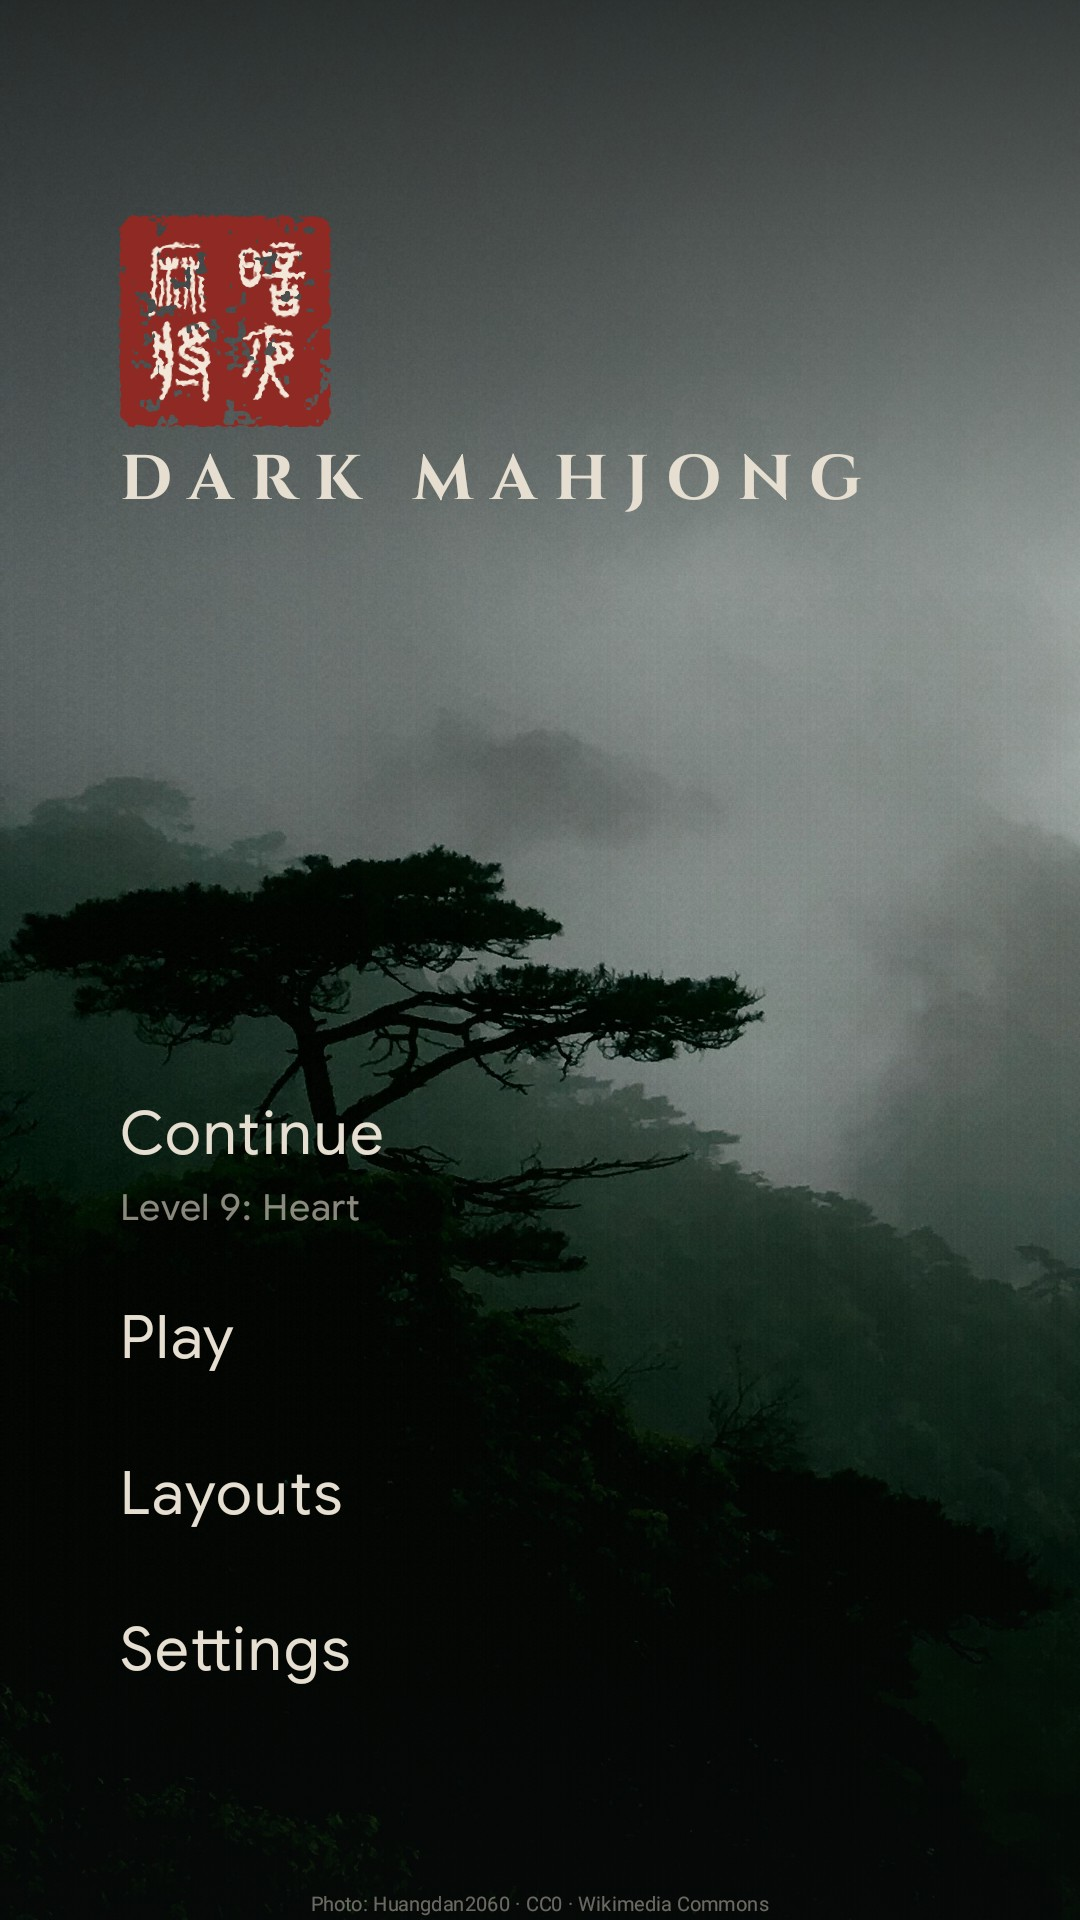
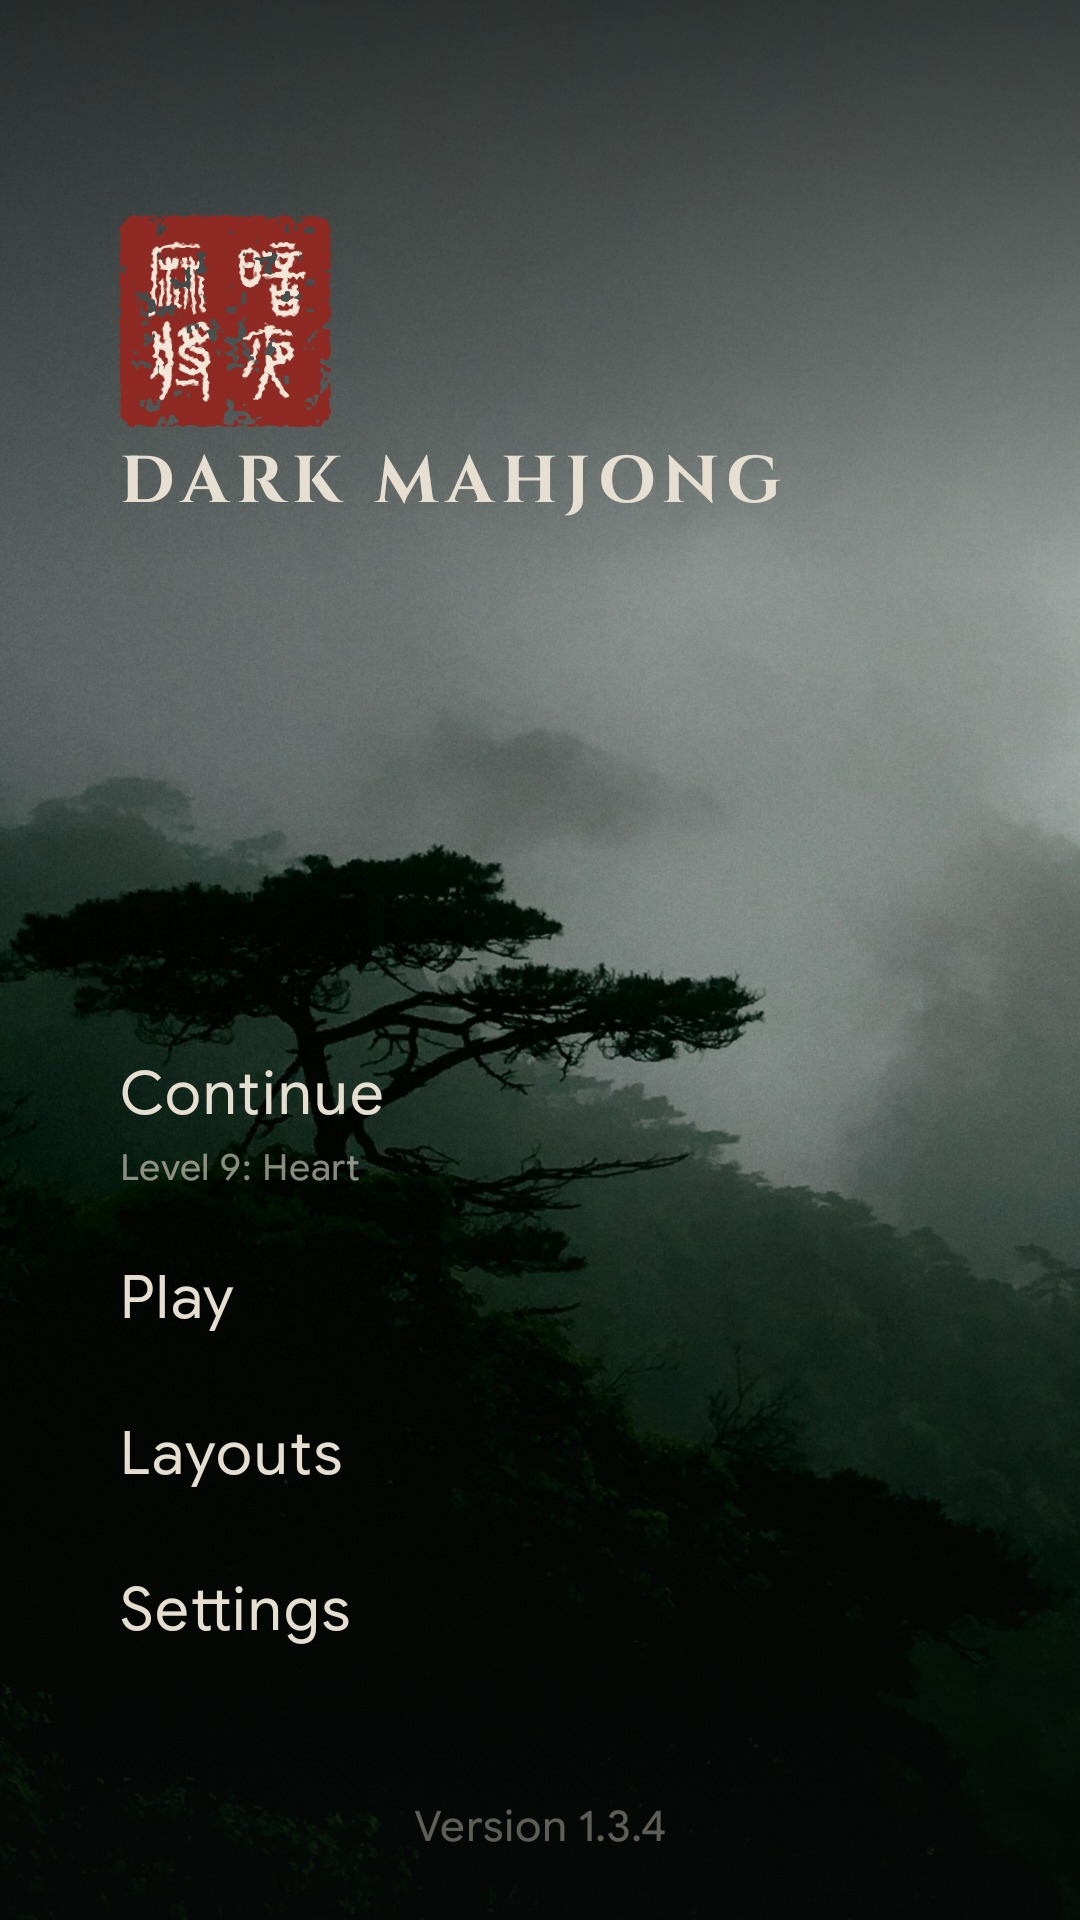
Screenshots from 1.3.4
The six store and README screenshots, rendered again from 1.3.4 (the
teal accent, the slate behind the levels list, the new version label).
For renders without a GPU, the slate is now drawn whole by the lamp
rather than left plain dark, so menu screens render as they look.

diff --git a/app/src/main/java/com/vortessence/mahjong/ui/components/StoneBackdrop.kt b/app/src/main/java/com/vortessence/mahjong/ui/components/StoneBackdrop.kt
@@ -43,6 +43,9 @@ fun SlateBackdrop(modifier: Modifier = Modifier, fire: Boolean = true, fireInten
     val colourBake = remember { RuntimeShader(SLATE_AGSL).apply { setFloatUniform("bakeMap", 0f) } }
     val surfaceBake = remember { RuntimeShader(SLATE_AGSL).apply { setFloatUniform("bakeMap", 1f) } }
     val light = remember { RuntimeShader(LIGHT_AGSL) }
+    // Without a GPU to bake on (the JVM renders), the slate lit by the lamp alone, worked out whole
+    val direct = remember { RuntimeShader(SLATE_AGSL).apply { setFloatUniform("bakeMap", 2f) } }
+    var bakeFailed by remember { mutableStateOf(false) }
     val colourLayer = rememberGraphicsLayer()
     val surfaceLayer = rememberGraphicsLayer()
     var size by remember { mutableStateOf(IntSize.Zero) }
@@ -56,8 +59,9 @@ fun SlateBackdrop(modifier: Modifier = Modifier, fire: Boolean = true, fireInten
             return layer.toImageBitmap().asAndroidBitmap()
         }
         // Baking needs the GPU (shaders can't be drawn in software, as in the JVM previews):
-        // without it, the page stays plain dark
+        // without it, the slate is drawn whole each time, by the lamp alone
         maps = runCatching { bake(colourLayer, colourBake) to bake(surfaceLayer, surfaceBake) }.getOrNull()
+        bakeFailed = maps == null
     }
     val flameSeconds by produceState(0f, fire) {
         if (fire && MenuFire.flickers) {
@@ -82,7 +86,13 @@ fun SlateBackdrop(modifier: Modifier = Modifier, fire: Boolean = true, fireInten
             .onSizeChanged { size = it }
             .drawBehind {
                 if (!inputs) {
-                    drawRect(Color(0xFF07090A))
+                    if (bakeFailed) {
+                        direct.setFloatUniform("res", this.size.width, this.size.height)
+                        direct.setFloatUniform("unit", density.density)
+                        drawRect(ShaderBrush(direct))
+                    } else {
+                        drawRect(Color(0xFF07090A))
+                    }
                     return@drawBehind
                 }
                 light.setFloatUniform("res", this.size.width, this.size.height)
@@ -129,7 +139,8 @@ private const val MENU_FIRE_FRAME_NANOS = 1_000_000_000L / 20 - 2_000_000L
 
 /**
  * The slate, baked once: its colour (bakeMap 0), or its surface (bakeMap 1: the normal, as
- * 0.5 + 0.5 n, in rgb).
+ * 0.5 + 0.5 n, in rgb). bakeMap 2: both at once, lit by the lamp alone as LIGHT_AGSL lights them,
+ * for where nothing can be baked.
  */
 private const val SLATE_AGSL = """
 uniform float2 res;
@@ -215,7 +226,14 @@ half4 main(float2 p) {
     float e = 1.0 / (unit * scale);
     float h = height(u);
     float3 n = normalize(float3(h - height(u + float2(e, 0.0)), h - height(u + float2(0.0, e)), e * 3.5));
-    return half4(half3(n * 0.5 + 0.5), 1.0);
+    if (bakeMap < 1.5) return half4(half3(n * 0.5 + 0.5), 1.0);
+    float3 l = normalize(float3(-0.55, -0.7, 0.45));
+    float3 c = colour(u) * (0.5 + 0.7 * max(dot(n, l), 0.0));
+    c += pow(max(dot(n, normalize(l + float3(0.0, 0.0, 1.0))), 0.0), 40.0) * 0.05 * 0.72;
+    float2 q = p / res;
+    c += exp(-dot(q - float2(0.25, 0.15), q - float2(0.25, 0.15)) * 3.0) * 0.03 * 0.72;
+    c *= 1.0 - 0.35 * dot(q - 0.5, q - 0.5);
+    return half4(half3(clamp(c, 0.0, 1.0)), 1.0);
 }
 """
 

diff --git a/app/src/test/java/com/vortessence/mahjong/screenshots/StoreScreenshots.kt b/app/src/test/java/com/vortessence/mahjong/screenshots/StoreScreenshots.kt
@@ -35,6 +35,12 @@ class StoreScreenshots {
     @get:Rule
     val compose = createComposeRule()
 
+    // The menu firelight's clock never lets the screen settle
+    @org.junit.Before
+    fun holdMenuFireStill() {
+        com.vortessence.mahjong.ui.components.MenuFire.flickers = false
+    }
+
     private fun shoot(name: String) = compose.onRoot().captureRoboImage("build/store-screenshots/$name.png")
 
     private fun game(surface: TableSurface, state: GameState, levelIndex: Int?, message: String? = null) {

diff --git a/README.md b/README.md
@@ -15,7 +15,7 @@ Dark Mahjong is a fork of **[Mahjong Solitaire by PcmciaKai](https://github.com/
 <p align="center">
   <img src="fastlane/metadata/android/en-US/images/phoneScreenshots/4.jpg" width="240" alt="A board on the green mat"/>
   <img src="fastlane/metadata/android/en-US/images/phoneScreenshots/5.jpg" width="240" alt="Winning: fireworks seen from above and a warm message"/>
-  <img src="fastlane/metadata/android/en-US/images/phoneScreenshots/6.jpg" width="240" alt="The levels list, easy to hard"/>
+  <img src="fastlane/metadata/android/en-US/images/phoneScreenshots/6.jpg" width="240" alt="The levels list, easy to hard, on dark slate"/>
 </p>
 
 ## Ad-free, offline and open, for good
